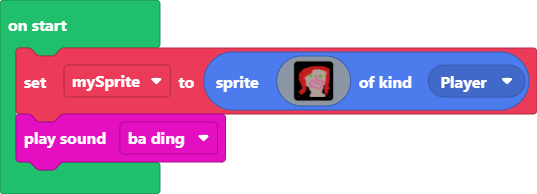
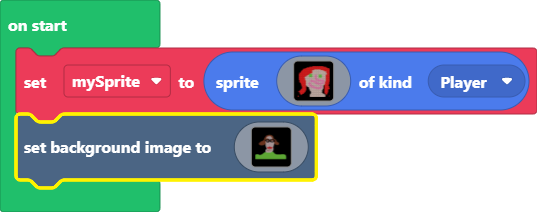
Update main.blocks, main.ts

diff --git a/main.ts b/main.ts
@@ -50,4 +50,125 @@ let mySprite = sprites.create(img`
     2fffff.............dddddddddddddddddddddddd...fff2
     22ffff.............dddddddddddddddddddddddd.......
     `, SpriteKind.Player)
-music.baDing.play()
+scene.setBackgroundImage(img`
+    ...................................................................eeeeeeeee....................................................................................
+    ...............................................................eeeeeeeeeeeeeeeee................................................................................
+    ............................................................eeeeeeeeeeeeeeeeeeeeeee.............................................................................
+    .........................................................eeeeeeeeeeeeeeeeeeeeeeeeeee............................................................................
+    ........................................................eeeeeeeeeeeeeeeeeeeeeeeeeeeee...........................................................................
+    ......................................................eeeeeeeeeeeeeeeeedddeeeeeeeeeeeee.........................................................................
+    ......................................................eeeeeeeeeeeeedddddddddeeeeeeeeeee.........................................................................
+    .....................................................eeeeeeeeeeedddddddddddddddeeeeeeeeee.......................................................................
+    .....................................................eeeeeeeedddddddddddddddddddeeeeeeeee.......................................................................
+    ....................................................eeeeeeeedddddddddddddddddddddeeeeeeee.......................................................................
+    ....................................................eeeeeeedddddddddddddddddddddddeeeeeeee......................................................................
+    ..................................................eeeeeeeedddddddddddddddddddddddddeeeeeee......................................................................
+    .................................................eeeeeeeeeddddddddddddddddddddddddddeeeeee......................................................................
+    .................................................eeeeeeeedddddddddddddddddddddddddddeeeeeee.....................................................................
+    ................................................eeeeeeeeeddddddddddddddddddddddddddddeeeeee.....................................................................
+    ...............................................eeeeeeeeeeddddddddddddddddddddddddddddeeeeee.....................................................................
+    ...............................................eeeeeeeeeeddddddddddddddddddddddddddddeeeeeee....................................................................
+    ...............................................eeeeeeeeeddddddddddddddddddddddddddddddeeeeee....................................................................
+    ..............................................eeeeeeeeeeddeeeeeeeeddddddddddddddddddddeeeeee....................................................................
+    ..............................................eeeeeeeeeedeeeeeeeeeedddddddddddddddddddeeeeeee...................................................................
+    ..............................................eeeeeeeeeeeeeeeffffffffddddddddddddddddddeeeeeee..................................................................
+    .............................................eeeeeeeeeeeeeefffffffffffdddddddffffffffffffffeeeeeee..............................................................
+    .............................................eeeeeeeeeeeeefffffffffffffffdddffffffffffffffffffeeeee.............................................................
+    .............................................eeeeefffeeeeffffffeeefffffffdddffffffffffffffffffeeeeee............................................................
+    ............................................eeeeeefffffefffffdeeeeeefffffddfffffeeeeeeeeefffffeeeeeeee..........................................................
+    ...........................................eeeeeefffffffffffdddeeeeeeefffddffffeeeeeeeeeeeeffffeeeeeeeee........................................................
+    ..........................................eeeeeeeffffffffffdddddeeeeeeffffffffeeeeeeeeeeeeeffffffffeeeee........................................................
+    .........................................eeeeeeeeffffffffffdddddeeeeeeffffffffeee.eeeeeeeeeefffffffeeeeee.......................................................
+    ........................................eeeeeeeeefffeffffffdddeeeeeeeffffffffeeeeeeddeeeeeeefffffffffeeee.......................................................
+    ......................................eeeeeeeeeeefffeeedfffdddefffeeefffffffddeefffdddddddeefffffffffeeee.......................................................
+    ....................................eeeeeeeeeeeeeeeeeeedfffdddefffeeffffffffddeefffddddddddeffffeefffeeeee......................................................
+    ....................................eeeeeeeeeeeeeeeeeeddffffddefffeeffffffffffeefffddddddddffffeeffffeeeee......................................................
+    ..............................eeeeeeeeeeeeeeeeeeeeeeeeddffffddeeeeeffffdffffffffeeeddddddffffffeeffffeeeeee.....................................................
+    .............................eeeeeeeeeeeeeeeeeeeeeeeeedddffffddddddffffdddfffffffddddddfffffffeeeffffeeeeee.....................................................
+    ............................eeeeeeeeeeeeeeeeeeeeeeeeeddddfffffddddffffddddddfffffffffffffffffeeeefffeeeeeeee....................................................
+    ..........................eeeeeeeeeeeeeeeeeeeeeeeeeeedddddffffffffffffddddddddffffffffffffffdddeeeeeeeeeeeeeee..................................................
+    .........................eeeeeeeeeeeeeeeeeeeeeeeeeeeedddddfffffffffffddddddddddffffffffffddddddeeeeeeeeeeeeeeee.................................................
+    ........................eeeeeeeeeeeeeeeeeeeeeeeeeeeeeddddddfffffffffdddddddddddddddddddddddddddeeeeeeeeeeeeeeeeee...............................................
+    .......................eeeeeeeeeeeeeeeeeeeeeeeeeeeeeedddddddddddddddddd3dddddddddddddddddddddddeeeeeeeeeeeeeeeeeeeee............................................
+    ......................eeeeeeeeeeeeeeeeeeeeeeeeeeeee..dddddddddddddddddd3dddddddddddddddddddddddeeeeeeeeeeeeeeeeeeeeeee..........................................
+    ....................eeeeeeeeeeeeeeeeeeeeeeeeeeeeeee..dddddddddddddddddd3ddddddddddddddddddddddd.eeeeeeeeeeeeeeeeeeeeee..........................................
+    ...................eeeeeeeeeeeeeeeeeeeeeeeeeeeeeeee..dddddddddddddddddd3ddddddddddddddddddddddd.eeeeeeeeeeeeeeeeeeeeee..........................................
+    ...................eeeeeeeeeeeeeeeeeeeeeeeeeeeeeeee..ddddddddddddddddd33ddddddddddddddddddddddd..eeeeeeeeeeeeeeeeeeeee..........................................
+    ...................eeeeeeeeeeeeeeeeeeeeeeeeeeeeeeee..ddddddddddddddddd3dddddddddddddddddddddddd...eeeeeeeeeeeeeeeeeeee..........................................
+    ...................eeeeeeeeeeeeeeeeeeeeeeeeeeeeeeee..dddddddddddddddd33ddddddddddddddddddddddd.....eeeeeeeeeeeeeeeeeee..........................................
+    ...................eeeeeeeeeeeeeeeeeeeeeeeeeeeeee....dddddddddddddddd3dddddddddddddddddddddddd......eeeeeeeeeeeeeeeeee..........................................
+    ...................eeeeeeeeeeeeeeeeeeeeeeeeeeeee.....dddddddddddddddd3ddddddddddddddddddddddd........eeeeeeeeeeeeeeeee..........................................
+    ....................eeeeeeeeeeeeeeeeeeeeeeeeee.......dddddddddddddddd3ddddddddddddddddddddddd...........eeeeeeeeeeeee...........................................
+    ......................eeeeeeeeeeeeeeeeeeeeee........ddddddddddddddddd3333dddddddddddddddddddd.............eeeeeeeee.............................................
+    ........................eeeeeeeeeeeeeeeee...........dddddddddddddddddd33ddddddddddddddddddddd...................................................................
+    ...........................eeeeeeeeee.....d.........dddddddddddddddddddddddddddddddddddddddd....................................................................
+    ....................................................dddddddddddddddddddddddddddddddddddddddd....................................................................
+    ....................................................dddddddddddddddddddddddddddddddddddddddd....................................................................
+    .....................................................dddddddddddddddddddddddddddddddddddddd.....................................................................
+    .....................................................dddddddddddddddddddddddddddddddddddddd.....................................................................
+    .....................................................dddddddddddddddddddddddddddddddddddddd.....................................................................
+    .....................................................dddddddddddddddddddddddddddddddddddddd.....................................................................
+    ......................................................dddddddddddddddddddddddddddddddddddd......................................................................
+    ......................................................dddddddddddddddd222222dddddddddddddd......................................................................
+    .......................................................ddddddddddddddd22222222ddddddddddd.......................................................................
+    .......................................................dddddd22222ddd222222222ddddddddddd.......................................................................
+    .......................................................dddddd222222222222c2222222d2222ddd.......................................................................
+    ........................................................ddddd222222222222cc22222222222ddd.......................................................................
+    ........................................................ddddd2222222222cccc22222222222dddd......................................................................
+    .........................................................dddd22222ccccccccccccc2222222dddd......................................................................
+    .........................................................ddddd22222cccc22222222222222ddddd......................................................................
+    ..........................................................dddd22222222222222222222222ddddd......................................................................
+    ..........................................................ddddd22222222222222222222ddddddd......................................................................
+    ..........................................................ddddddd222222222dddeeeeddddddddd......................................................................
+    ..........................................................ddddddddddddeeeddddeeedddddddddd......................................................................
+    ..........................................................dddddddddddddddddddddddddddddddd......................................................................
+    .........................................................ddddddddddddddddddddddddddddddddd......................................................................
+    .......................................................dddddddddddddddddeeedddddeeeddddddd......................................................................
+    .....................................................ddddddddddddeeeddddeeedddddeeeddddddd......................................................................
+    ....................................................dddddddddddddeeeddddeeedddddeeeddddddd......................................................................
+    ....................................................dddddddddddddeeeddddddddddddddddddddd.......................................................................
+    ....................................................dddddddddeeedeeeddddddeeedddddddddddd.......................................................................
+    ....................................................dddddddddeeedeeeddddddeeedddddddddddd.......................................................................
+    ....................................................dddddddddeeeddddddddddeeeddddddddddd........................................................................
+    ....................................................dddddddddddddeeedddddddddddddddddddd........................................................................
+    ....................................................dddddddddddddeeeddddddddddddddddddd.........................................................................
+    ....................................................dddddddddddddeeedddddddddddddddddd..........................................................................
+    ....................................................dddddddddddddddddddddddddddddddddd..........................................................................
+    ....................................................dddddddddddddddddddddddddddddddd............................................................................
+    .....................................................dddddddddddddddddddddddddddddd77777........................................................................
+    ......................................................dddddddddddddddddddddddddddd77777777......................................................................
+    .................................................777777ddddddddddddddddddddddddd77777777777.....................................................................
+    ...............................................7777777777ddddddddddddddddddddd7777777777777.....................................................................
+    ..............................................7777777777777777777777777777777777777777777777....................................................................
+    .............................................777777777777777777777777777777777777777777777777...................................................................
+    ...........................................777777777777777777777777777777777777777777777777777..................................................................
+    ..........................................77777777777777777777777777777777777777777777777777777.................................................................
+    ........................................77777777777777777777777777777777777777777777777777777777................................................................
+    .......................................7777777777777777777777777777777777777777777777777777777777...............................................................
+    ......................................777777777777777777777777777777777777777777777777777777777777..............................................................
+    .....................................777777777777777777777777777777777777777777777777777777777777777............................................................
+    ...................................7777777777777777777777777777777777777777777777777777777777777777777..........................................................
+    ....77777777777..................7777777777777777777777777777777777777777777777777777777777777777777777777........................77777777777777................
+    ...777777777777777.............77777777777777777777777777777777777777777777777777777777777777777777777777777777777777777777777777777777777777777777.............
+    ..77777777777777777.........7777777777777777777777777777777777777777777777777777777777777777777777777777777777777777777777777777777777777777777777777...........
+    .777777777777777777777...777777777777777777777777777777777777777777777777777777777777777777777777777777777777777777777777777777777777777777777777777777.........
+    77777777777777777777777777777777777777777777777777777777777777777777777777777777777777777777777777777777777777777777777777777777777777777777777777777777........
+    77777777777777777777777777777777777777777777777777777777777777777777777777777777777777777777777777777777777777777777777777777777777777777777777777777777........
+    777777777777777777777777777777777777777777777777777777777777777777777777777777777777777777777777777777777777777777777777777777777777777777777777777777777.......
+    777777777777777777777777777777777777777777777777777777777777777777777777777777777777777777777777777777777777777777777777777777777777777777777777777777777.......
+    777777777777777777777777777777777777777777777777777777777777777777777777777777777777777777777777777777777777777777777777777777777777777777777777777777777.......
+    777777777777777777777777777777777777777777777777777777777777777777777777777777777777777777777777777777777777777777777777777777777777777777777777777777777.......
+    7777777777777777777777777777777777777777777777777777777777777777777777777777777777777777777777777777777777777777777777777777777777777777777777777777777777......
+    7777777777777777777777777777777777777777777777777777777777777777777777777777777777777777777777777777777777777777777777777777777777777777777777777777777777......
+    7777777777777777777777777777777777777777777777777777777777777777777777777777777777777777777777777777777777777777777777777777777777777777777777777777777777......
+    7777777777777777777777777777777777777777777777777777777777777777777777777777777777777777777777777777777777777777777777777777777777777777777777777777777777......
+    7777777777777777777777777777777777777777777777777777777777777777777777777777777777777777777777777777777777777777777777777777777777777777777777777777777777......
+    7777777777777777777777777777777777777777777777777777777777777777777777777777777777777777777777777777777777777777777777777777777777777777777777777777777777......
+    7777777777777777777777777777777777777777777777777777777777777777777777777777777777777777777777777777777777777777777777777777777777777777777777777777777777......
+    7777777777777777777777777777777777777777777777777777777777777777777777777777777777777777777777777777777777777777777777777777777777777777777777777777777777......
+    7777777777777777777777777777777777777777777777777777777777777777777777777777777777777777777777777777777777777777777777777777777777777777777777777777777777......
+    7777777777777777777777777777777777777777777777777777777777777777777777777777777777777777777777777777777777777777777777777777777777777777777777777777777777......
+    7777777777777777777777777777777777777777777777777777777777777777777777777777777777777777777777777777777777777777777777777777777777777777777777777777777777......
+    7777777777777777777777777777777777777777777777777777777777777777777777777777777777777777777777777777777777777777777777777777777777777777777777777777777777......
+    7777777777777777777777777777777777777777777777777777777777777777777777777777777777777777777777777777777777777777777777777777777777777777777777777777777777......
+    `)
